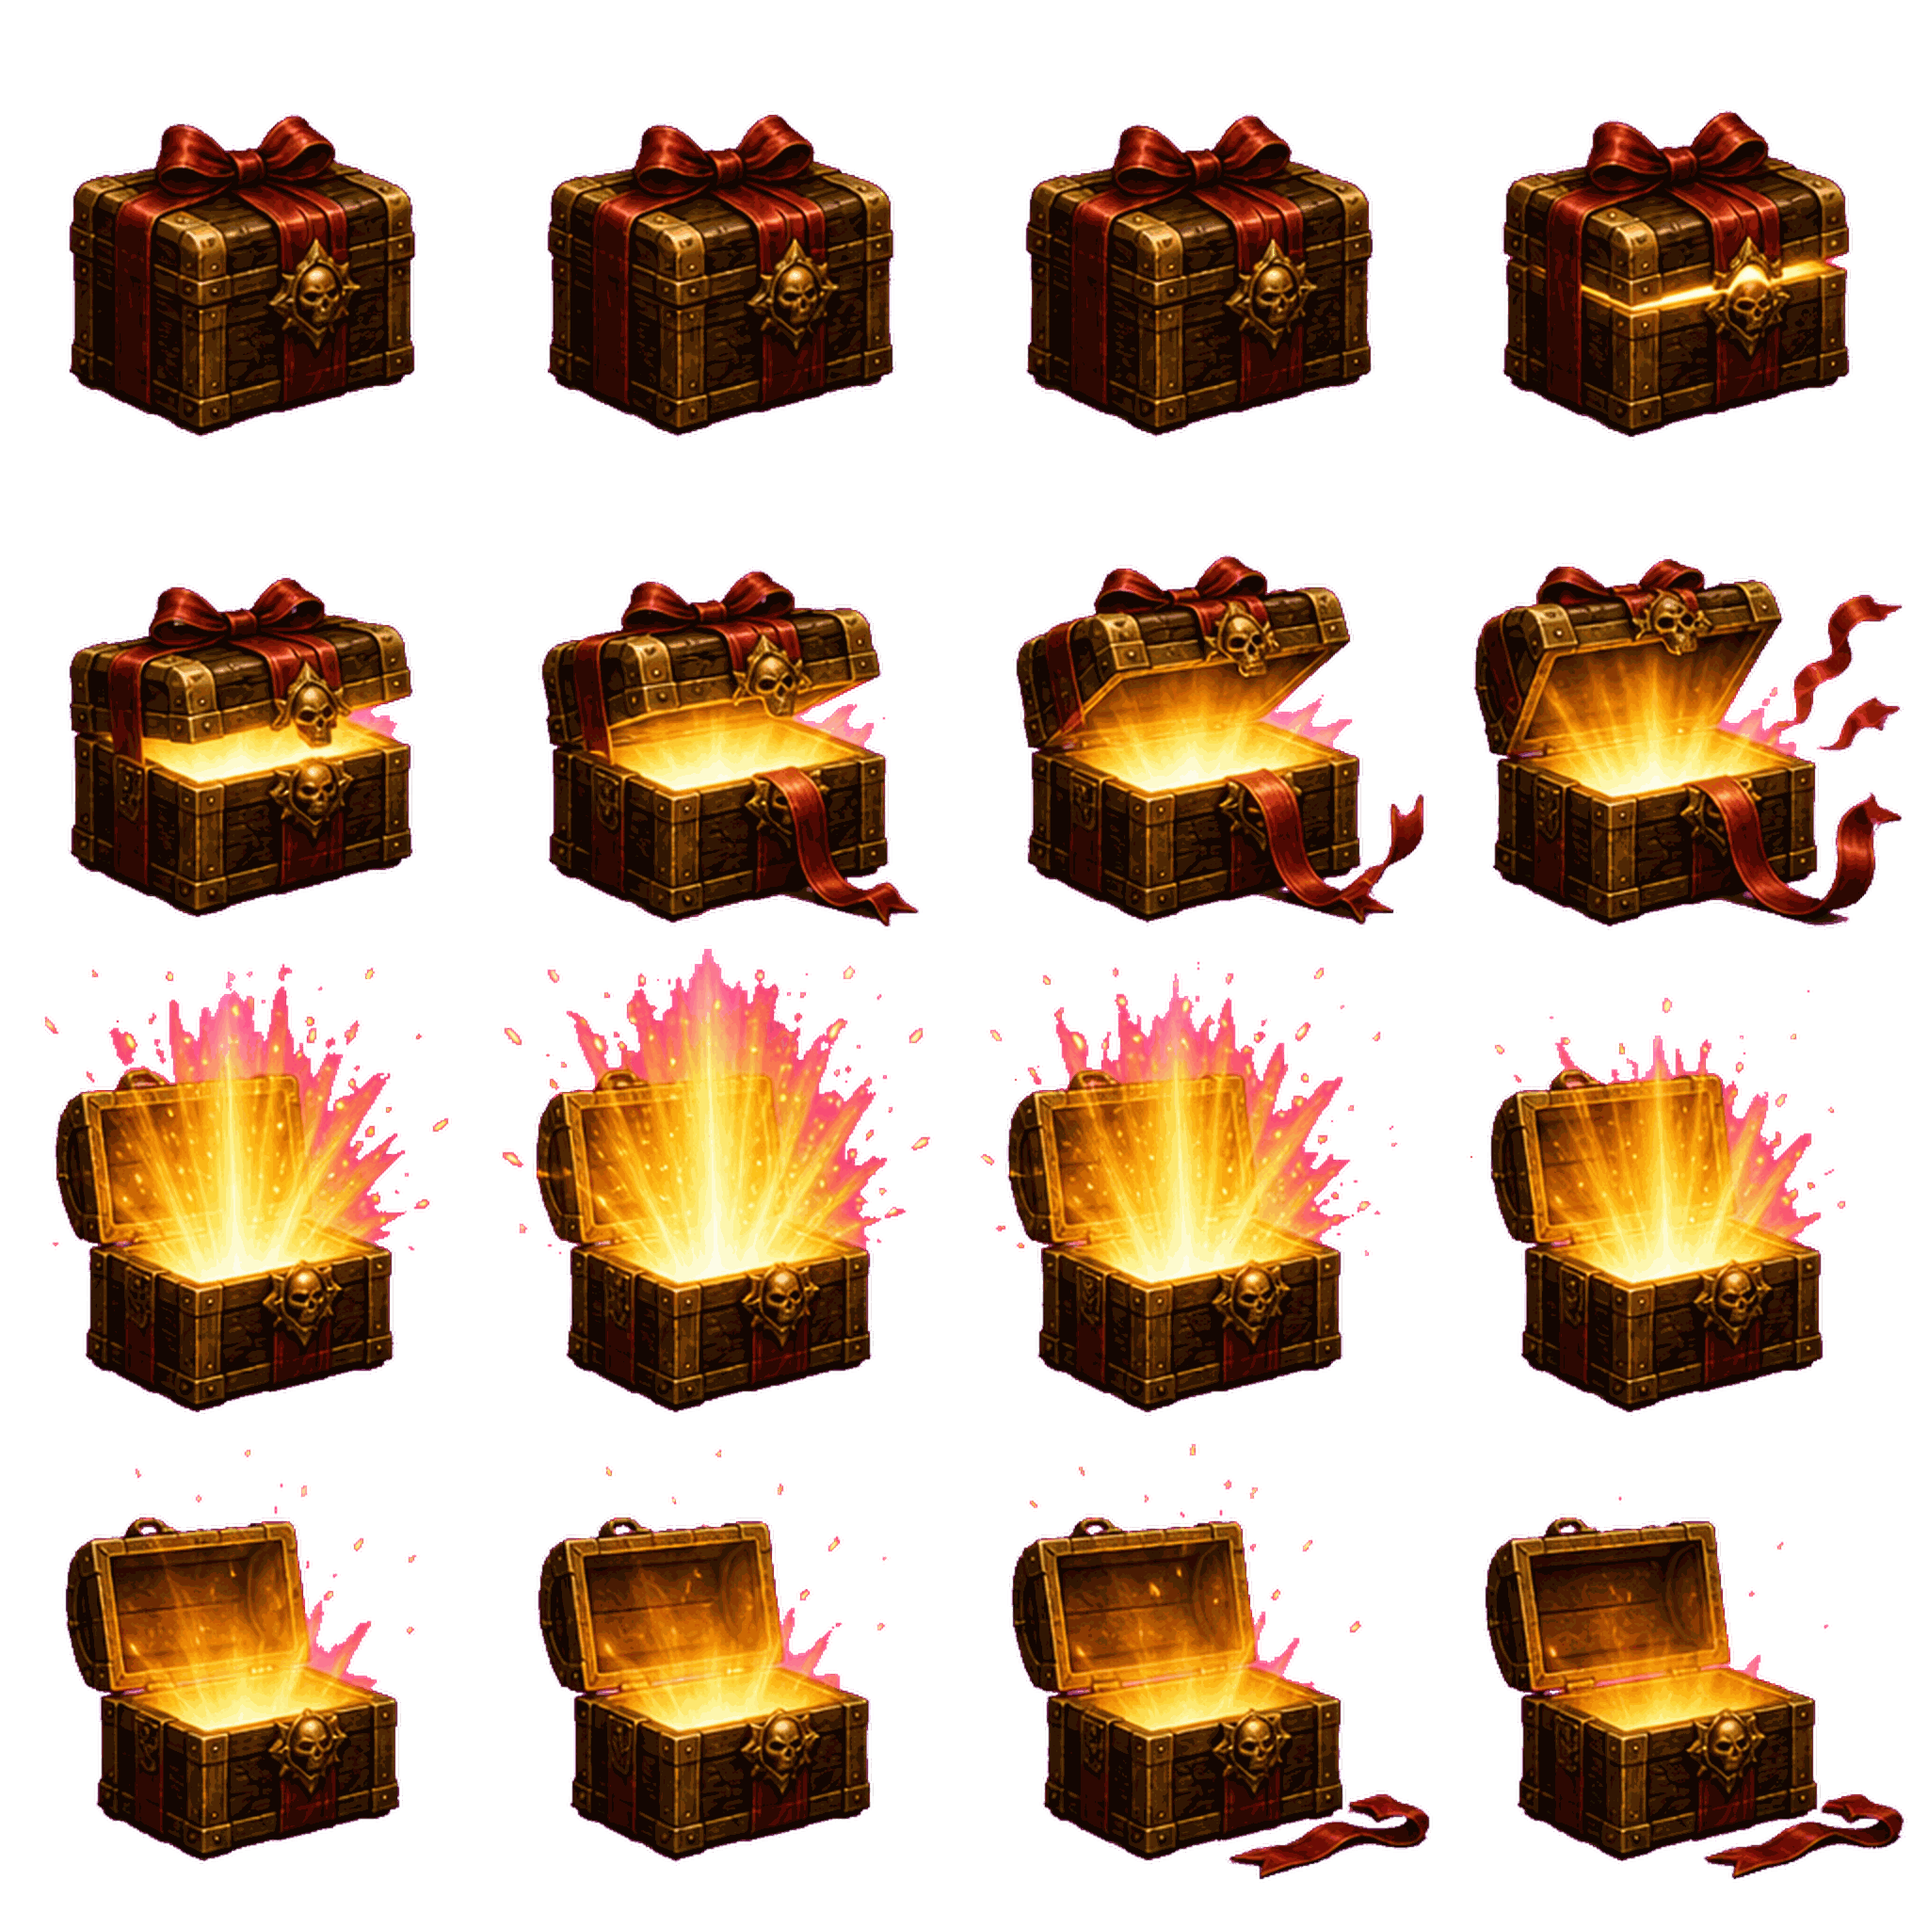
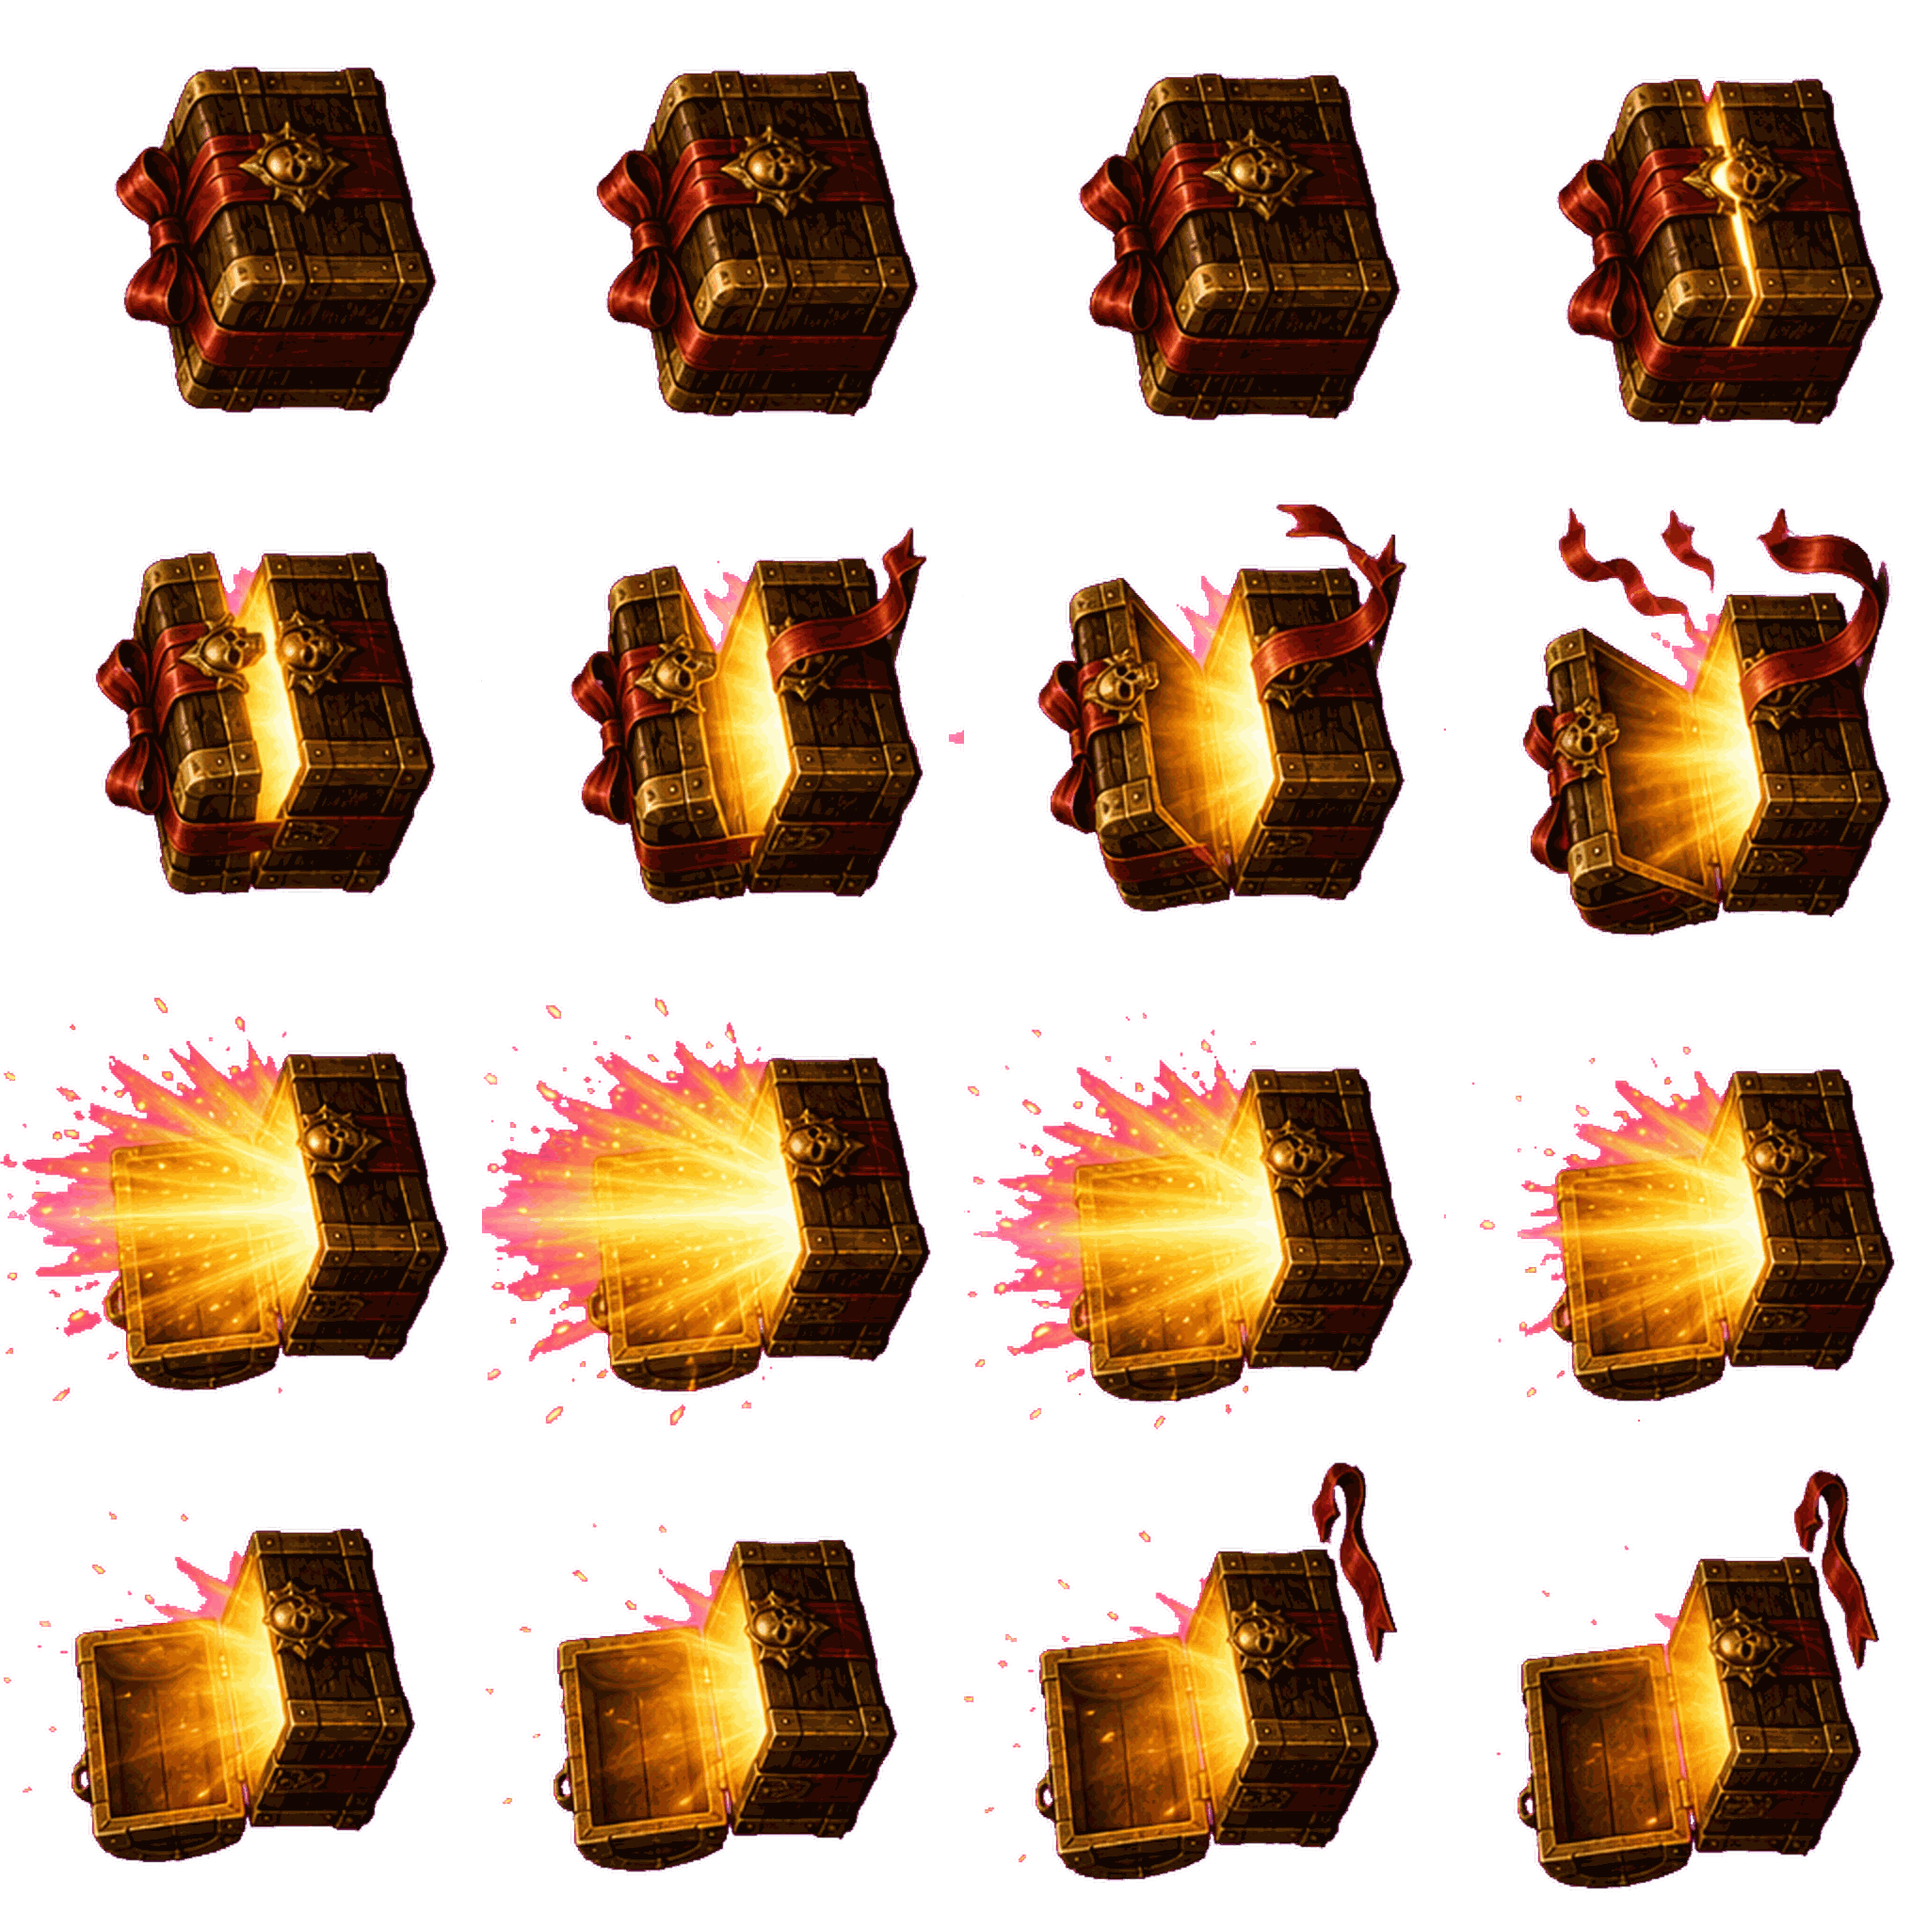
Fix gift-chest orientation and let rift watchers leave on their own clock.

diff --git a/src/mp/session.ts b/src/mp/session.ts
@@ -46,6 +46,10 @@ export const trade = {
 
 export const riftView: { pub: RiftPub; revision: number } = { pub: emptyRift(), revision: -1 }
 
+/** Watchers leave the end plaque on their own clock, not the room's 12s hold. */
+const SPECTATOR_HOME_SECS = 2.8
+let spectatorHomeIn = SPECTATOR_HOME_SECS
+
 /** My rift drop, waiting for its hero-card reveal after the spoils screen. */
 let riftDropUid = ''
 /** A card that came inside a gift chest, waiting for its reveal. */
@@ -404,6 +408,18 @@ export function initMultiplayerSession(): void {
         if (mine?.dropUid) riftDropUid = mine.dropUid
       }
       break
+    }
+
+    // Watchers are not on the spoils clock. A short recap, then home —
+    // they should not sit on YOU WIN until the raiders tap through.
+    if (game.phase === 'rift' && !mySeat() && (riftView.pub.phase === 'won' || riftView.pub.phase === 'lost')) {
+      spectatorHomeIn -= dt
+      if (spectatorHomeIn <= 0) {
+        spectatorHomeIn = SPECTATOR_HOME_SECS
+        goHome()
+      }
+    } else {
+      spectatorHomeIn = SPECTATOR_HOME_SECS
     }
 
     // Mirror the synced festival state (realm goal + window clock).

diff --git a/src/ui/screens.tsx b/src/ui/screens.tsx
@@ -3152,7 +3152,8 @@ function RiftBattle() {
 function RiftEnd() {
   const pub = riftView.pub
   const won = pub.phase === 'won'
-  const mine = pub.rewards?.find((reward) => reward.address === getMyAddress())
+  const seated = !!mySeat()
+  const mine = seated ? pub.rewards?.find((reward) => reward.address === getMyAddress()) : undefined
   const dismiss = () => {
     goHome()
     lockNav()
@@ -3163,7 +3164,11 @@ function RiftEnd() {
       onMouseDown={dismiss}
     >
       <UiEntity uiTransform={{ width: 220, height: '100%', alignItems: 'center', justifyContent: 'center' }}>
-        <Img k={won ? 'win' : 'lose'} w={190} tint={Color4.White()} margin={0} />
+        {seated ? (
+          <Img k={won ? 'win' : 'lose'} w={190} tint={Color4.White()} margin={0} />
+        ) : (
+          <Img k="watching" w={36} tint={muted} margin={0} />
+        )}
       </UiEntity>
       {won && pub.rewards ? (
         <UiEntity uiTransform={{ flexDirection: 'row', alignItems: 'center', justifyContent: 'center' }}>
